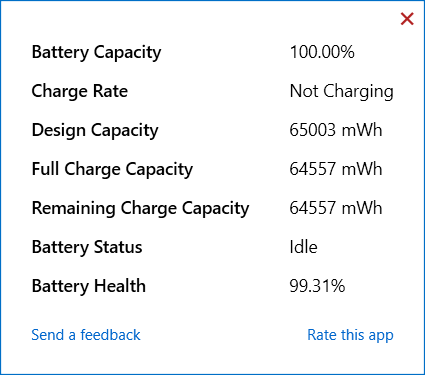
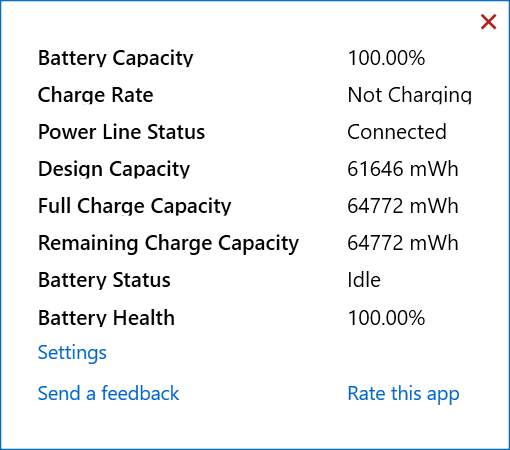
Tweaked details view style to match settings view, and updated packing for store submission.

diff --git a/Wpf/DetailsWindow.xaml b/Wpf/DetailsWindow.xaml
@@ -6,8 +6,7 @@
                  xmlns:wpf="clr-namespace:Percentage.Wpf"
                  mc:Ignorable="d"
                  Title="Battery Details"
-                 Height="300"
-                 SizeToContent="Width"
+                 SizeToContent="WidthAndHeight"
                  WindowStartupLocation="CenterScreen">
     <Grid>
         <Grid.Resources>
@@ -16,6 +15,8 @@
                         Value="14" />
                 <Setter Property="VerticalAlignment"
                         Value="Center" />
+                <Setter Property="Margin"
+                        Value="0,5" />
             </Style>
         </Grid.Resources>
         <Grid.ColumnDefinitions>
@@ -98,10 +99,11 @@
                    x:Name="Health"
                    x:FieldModifier="private" />
         <TextBlock Grid.Row="8"
-                   Grid.Column="1"
-                   FontSize="12"
+                   Grid.Column="0"
+                   FontSize="13"
                    HorizontalAlignment="left"
-                   VerticalAlignment="Bottom">
+                   VerticalAlignment="Bottom"
+                   Margin="0,10,0,5">
             <Hyperlink TextDecorations="None"
                        Click="OnSettingsClick">
                 Settings
@@ -109,7 +111,7 @@
         </TextBlock>
         <TextBlock Grid.Row="9"
                    Grid.Column="0"
-                   FontSize="12"
+                   FontSize="13"
                    HorizontalAlignment="Left"
                    VerticalAlignment="Bottom">
             <Hyperlink TextDecorations="None"
@@ -119,7 +121,7 @@
         </TextBlock>
         <TextBlock Grid.Row="9"
                    Grid.Column="1"
-                   FontSize="12"
+                   FontSize="13"
                    HorizontalAlignment="left"
                    VerticalAlignment="Bottom">
             <Hyperlink TextDecorations="None"
